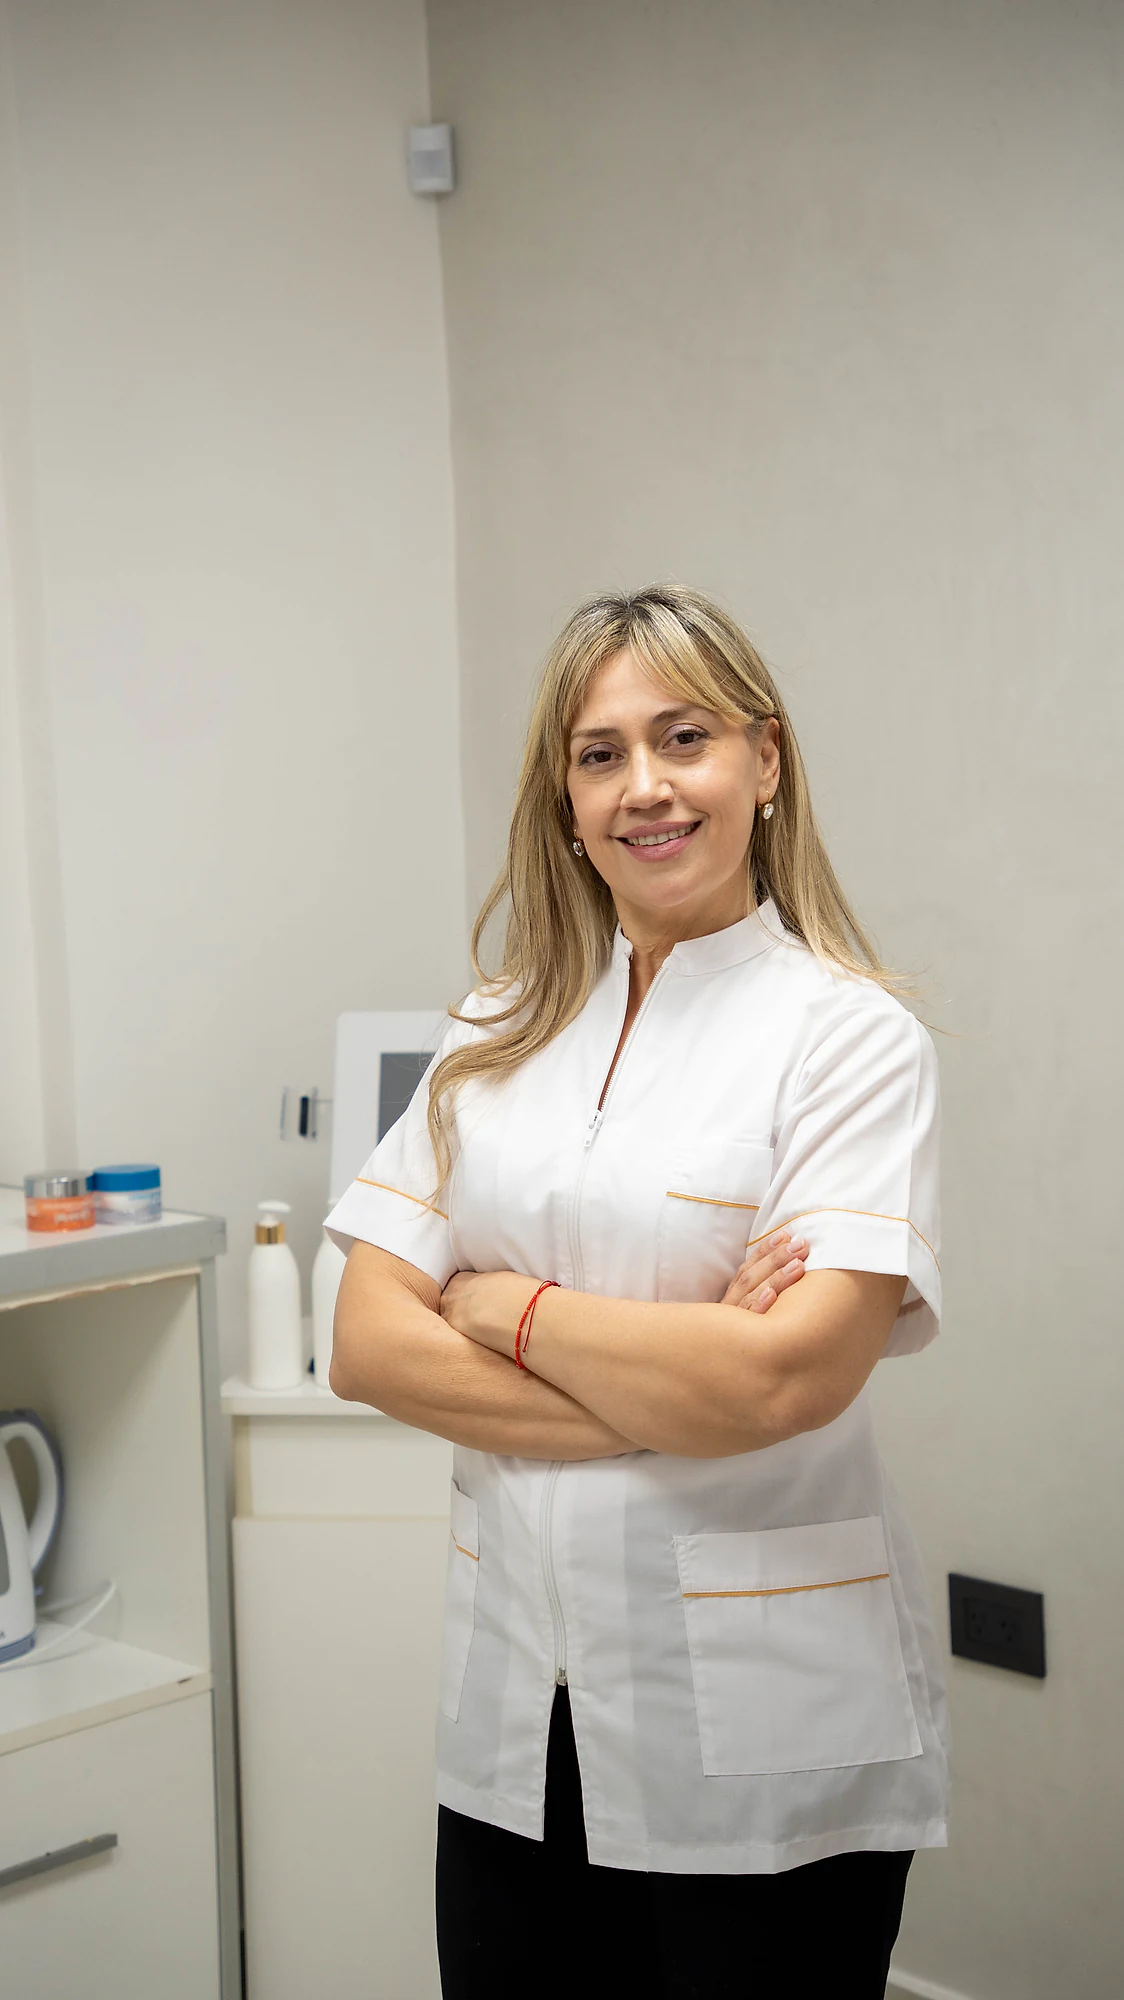
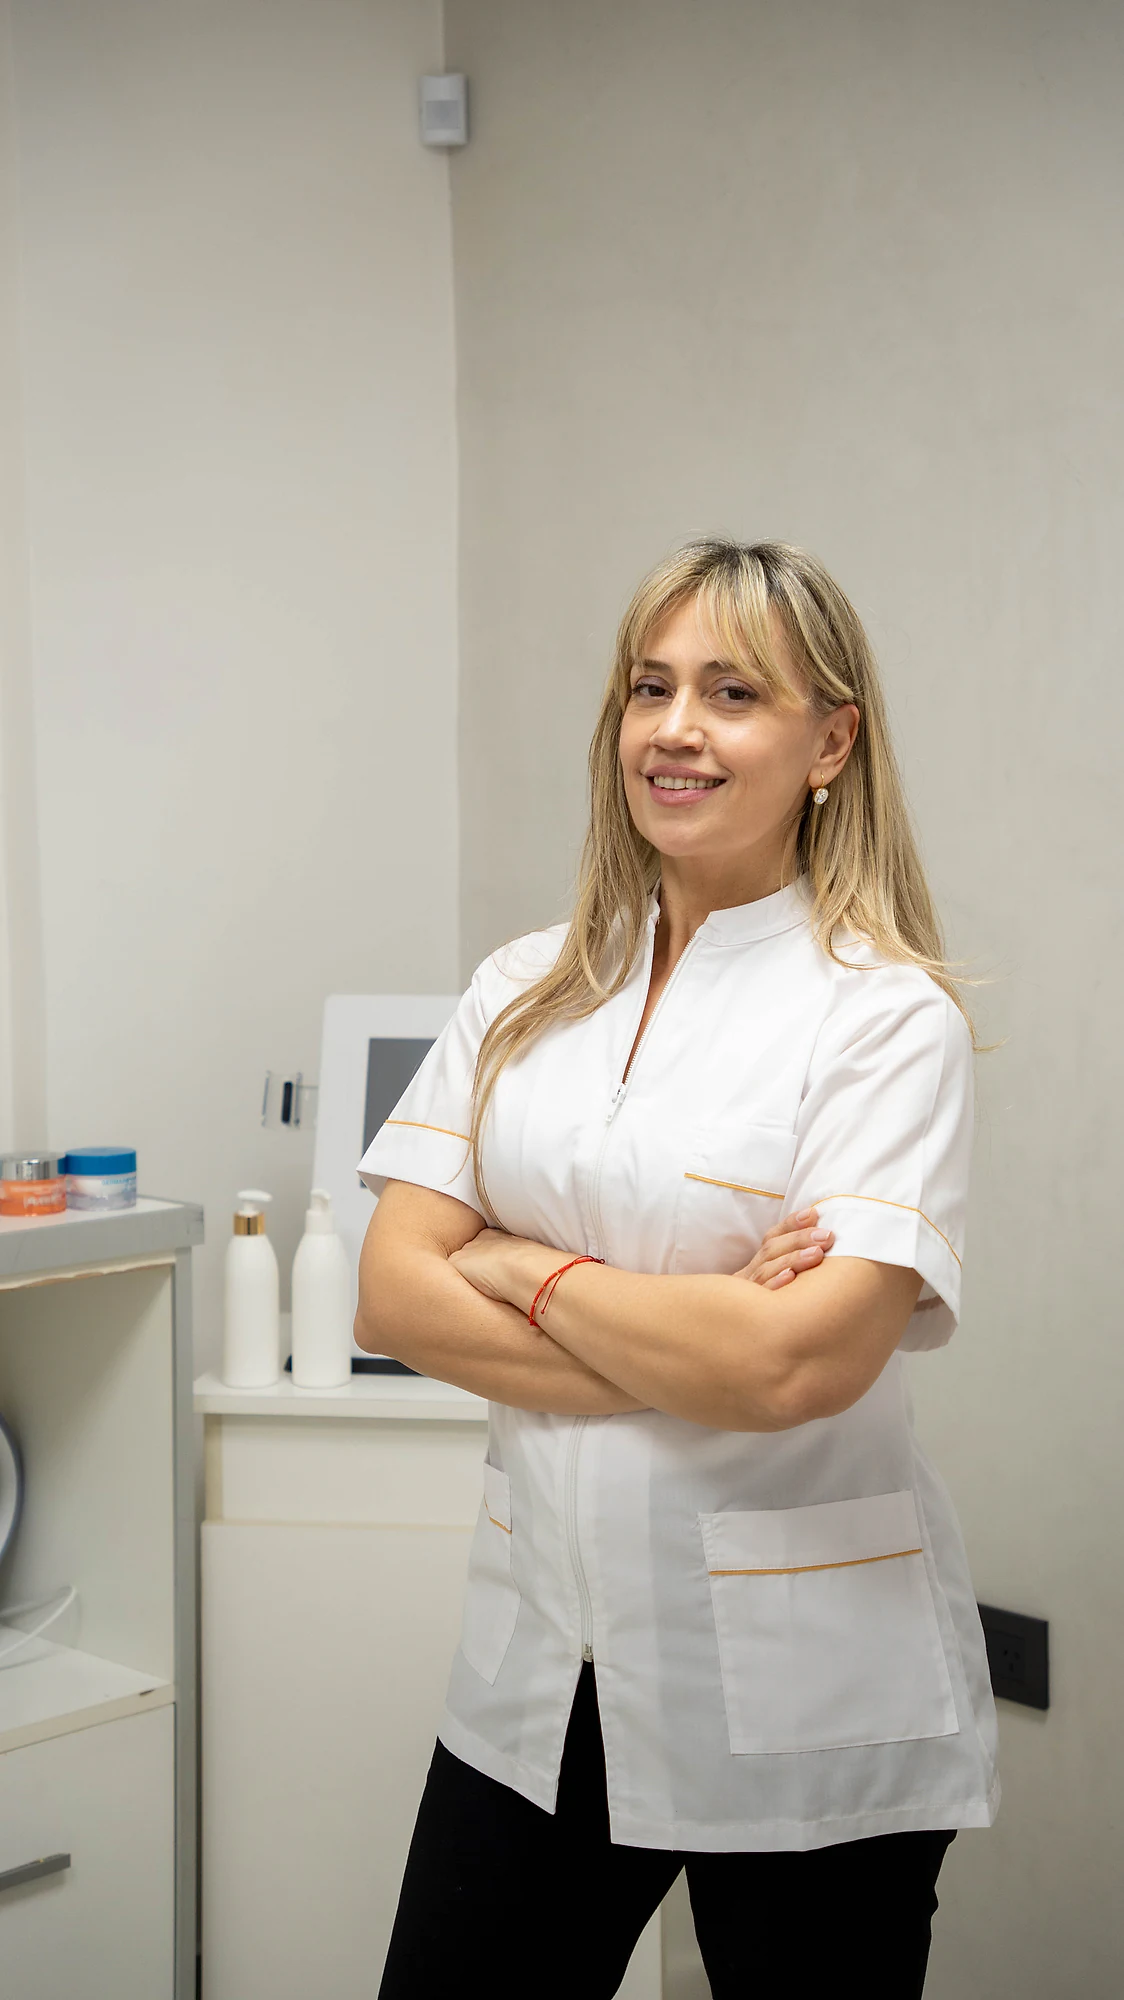
cambios

diff --git a/CHANGELOG.md b/CHANGELOG.md
@@ -1,5 +1,32 @@
 # Changelog
 
+## 2026-09-28 — Eugenia Leiva: fotos nuevas y renumeradas
+
+- **Se descartó su foto 1** (de pie, brazos cruzados, gesto neutro) y **la 2 pasó
+  a ser la 1**: es la misma toma pero sonriendo. Como la sección de cifras
+  —la última de la ficha— reusa la foto 1, esa cara nueva aparece ahí sola, que
+  es lo que se pedía; no hizo falta tocar nada para eso.
+- **`eugenia_leiva2.jpg` es ahora su foto 2**: sentada al escritorio, apoyada en
+  la mano. Es la que alterna con la 1 cada 3 segundos en el hero de su ficha y
+  la que sale al pasar el cursor.
+- **`eugenia_leiva4.jpg` reemplaza a su foto 4**, una de las dos chicas del
+  mosaico de trayectoria.
+- **3, 5 y 6 quedaron como estaban.** El banner de su frase sigue con la 6.
+- Las dos descartadas quedaron guardadas fuera del proyecto antes de borrarlas,
+  por si hacen falta.
+
+### Encontrado y no modificado
+
+- **Las dos fotos nuevas vienen bastante más chicas que el resto**: 930×1600 y
+  766×1280, contra los 3480×6192 de las demás. Se sirven enteras, sin agrandar,
+  así que rinden bien hasta pantalla retina común y quedan algo más blandas en
+  un teléfono de densidad alta. Si existen los originales en grande, conviene
+  reemplazarlas.
+- **La 1 y la 2 ya no son la misma toma.** Antes eran la misma pose con otro
+  gesto y el cruce del hero se leía como que la foto cobraba vida; ahora una
+  está de pie en la sala y la otra sentada al escritorio, así que el cambio se
+  nota más. Es consecuencia de lo pedido, no un error.
+
 ## 2026-09-28 — Auditoría de mobile: contenido cortado, tarjeta del mosaico, hero y navbar
 
 ### 1. La ficha del profesional se cortaba contra el borde derecho
